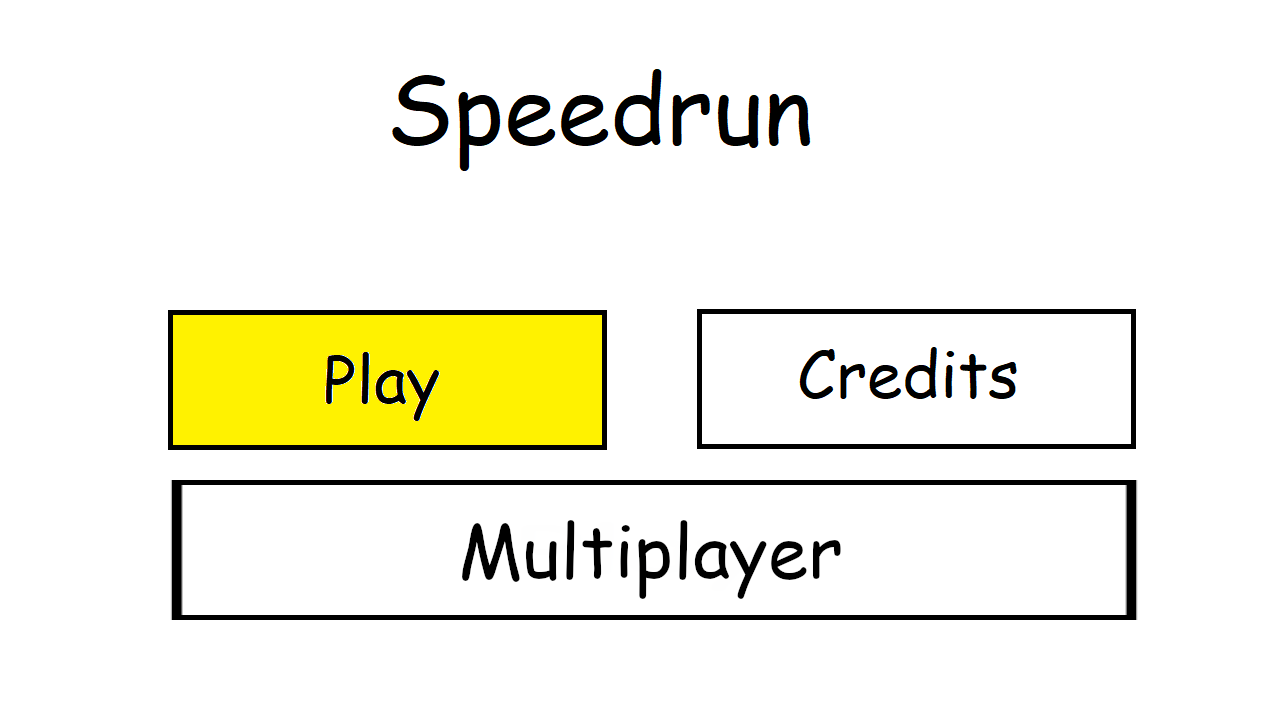
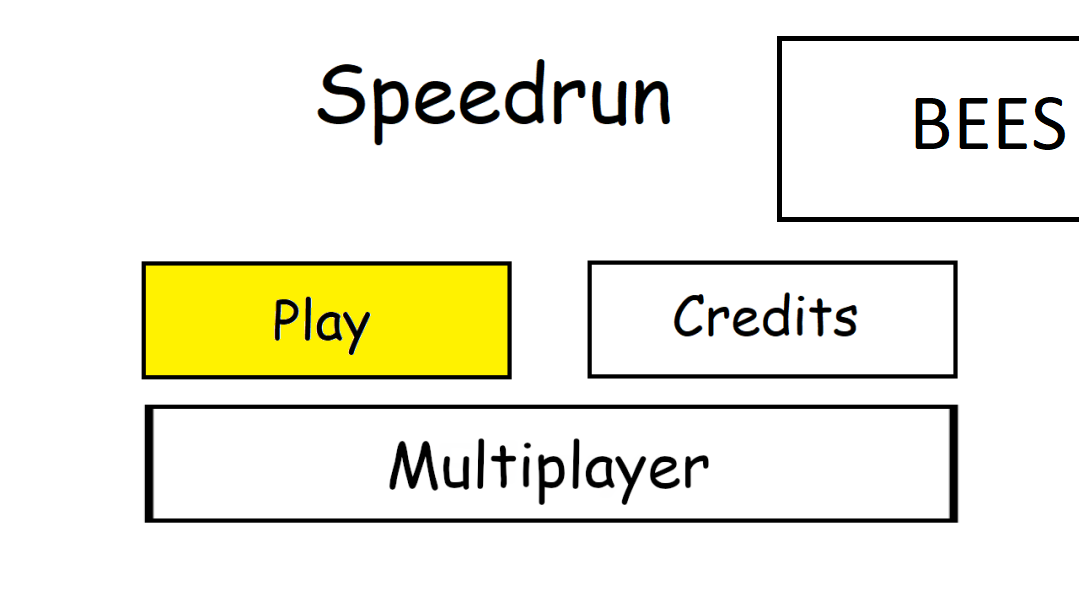
Network Goals
Pings!

Changed region(s): [[0.2753, 0.089, 0.6423, 0.2372], [0.7034, 0.0593, 1.0, 0.3855], [0.8258, 0.1483, 1.0, 0.2669]]

diff --git a/src/main.cpp b/src/main.cpp
@@ -1,7 +1,21 @@
+// SDL2 stuffs
 #include <iostream>
 #include <vector>
+#include <time.h>
 #include <SDL.h>
 #include <SDL_image.h>
+
+// Networking stuffs
+#include <stdio.h>
+#include <stdlib.h>
+#include <unistd.h>
+#include <string.h>
+#include <sys/types.h>
+#include <sys/socket.h>
+#include <netinet/in.h>
+#include <netdb.h> 
+
+// Our headers
 #include "XorShifter.h"
 #include "SimplexNoise.h"
 #include "Screen.h"
@@ -9,7 +23,7 @@
 #include "Player.h"
 
 #define CREDIT_SIZE 10
-#define MENU_SIZE 2
+#define MENU_SIZE 4
 
 constexpr int SCREEN_WIDTH = 1280;
 constexpr int SCREEN_HEIGHT = 720;
@@ -24,6 +38,8 @@ Uint32 before;
 Uint32 then;
 Uint32 delta;
 Uint32 now;
+std::vector <SDL_Rect> blocks;	//stores collidable blocks
+std::vector <SDL_Rect> decorative_blocks;	//stores non-collidable blocks
 
 // Function declarations
 bool init();
@@ -32,6 +48,7 @@ Image *loadImage(const char *, int, int);
 void runCredits();
 void runGame();
 void runMenu();
+Player* generateTerrain();
 SDL_Texture *loadTexture(std::string);
 
 Image *loadImage(const char *src, int w, int h)
@@ -86,6 +103,86 @@ void close()
 	delete screen;
 	// Quit SDL subsystems
 	SDL_Quit();
+}
+
+//create blocks, add them to the blocks vector, and return a player at a valid spawn point
+Player* generateTerrain()
+{
+	blocks.clear();
+	decorative_blocks.clear();
+	
+	srand (time(NULL));
+	int rand (void);
+	
+	XorShifter *rng = new XorShifter(412001000);
+	
+	SimplexNoise *simp = new SimplexNoise(rand() % 1000000);
+	simp->freq = 0.05f;
+	simp->octaves = 2;
+	simp->updateFractalBounds();
+	
+	int cave_nums[SCREEN_HEIGHT / BOX_HEIGHT];
+	
+	//SDL_Texture* block_texture = loadTexture("../res/block.png");
+	//SDL_Texture* background_texture = loadTexture("../res/background_block.png");
+	
+	//generate values from a "line" of noise, one value for each row of blocks
+	for (int test = -18; test < 18; test++)
+	{
+		float val_f = simp->getSingle(1, test) * 100;
+		
+		int val_i = (int)val_f;
+		
+		cave_nums[test + 18] = val_i;
+	}
+	
+	bool player_created = false;
+	Player *user;// = new Player(10, 0, 20, 20, loadTexture("../res/Guy.png"));
+	
+	//for each block on the screen
+	for (int y = 0; y < SCREEN_HEIGHT; y = y + BOX_HEIGHT)
+	{
+		bool b = true;
+		
+		//"start" indicates the relative position of the left wall of the cave to the screen at a given elevation
+		int start = cave_nums[y / BOX_HEIGHT] - 11;
+		
+		//"end" indicates the relative position of the right wall of the cave to the screen at a given elevation
+		int end = cave_nums[y / BOX_HEIGHT] + 10;
+		
+		//for each block at elevation y, compare the relative x position of the block on the screen to the
+		//"start" and "end" positions
+		for (int x = 0; x < SCREEN_WIDTH; x = x + BOX_WIDTH)
+		{
+			//relative x position of the block on the screen
+			int ratio = (float)x / (float)SCREEN_WIDTH * 100;
+			
+			//create the rectangle representing the left wall of the cave at elevation y when we reach the correct relative x position
+			if (ratio > start && b)
+			{
+				SDL_Rect block = {0, y, BOX_WIDTH * (x / BOX_WIDTH), BOX_HEIGHT};
+				blocks.push_back(block);
+				b = false;
+				
+				//spawn the player in at the first available "free" block
+				if (!player_created)
+				{
+					user = new Player(x, y, 20, 20, loadTexture("../res/Guy.png"));
+					player_created = true;
+				}
+			}
+			//create the rectangle representing the right wall of the cave at elevation y when we reacht he correct relative x position
+			if (ratio > end)
+			{
+				SDL_Rect block = {x, y, BOX_WIDTH *100, BOX_HEIGHT};
+				blocks.push_back(block);
+				break;
+			}
+		}
+	}
+	
+	return user;
+	
 }
 
 void runCredits()
@@ -161,14 +258,17 @@ void runCredits()
 void runGame()
 {
 	// Create player object with x, y, w, h, texture
-	Player *user = new Player(10, 0, 20, 20, loadTexture("../res/Guy.png"));
+	//Player *user = new Player(10, 0, 20, 20, loadTexture("../res/Guy.png"));
+	
+	//create the player and generate the terrain
+	Player *user = generateTerrain();
 
 	//Define the blocks
-	SDL_Rect block = {SCREEN_WIDTH/2, SCREEN_HEIGHT-20, 200, 20};
+	/*SDL_Rect block = {SCREEN_WIDTH/2, SCREEN_HEIGHT-20, 200, 20};
 	SDL_Rect anotherBlock = {SCREEN_WIDTH/2 - 190, SCREEN_HEIGHT-120, 120, 20};
 	SDL_Rect spring = {SCREEN_WIDTH/2 - 300, SCREEN_HEIGHT-180, 100, 20};
 
-	std::vector <SDL_Rect> blocks = {block, anotherBlock, spring};
+	blocks = {block, anotherBlock, spring};*/
 
 	SDL_Event e;
 	bool gameon = true;
@@ -247,6 +347,85 @@ void runGame()
 	}
 }
 
+void error(const char *msg)
+{
+    perror(msg);
+    exit(1);
+}
+
+void runMultiTestClient()
+{
+	// Sockets Linux tutorial:
+	// http://www.linuxhowtos.org/C_C++/socket.htm
+
+	/*
+	1. Create a socket with the socket() system call
+	2. Connect the socket to the address of the server using the connect() system call
+	3. Send and receive data. There are a number of ways to do this, but the simplest is to use the read() and write() system calls.
+	*/
+
+	const char* hostName = "localhost";
+	const uint16_t portNum = 3060;
+	char buffer[256]; // bytes to communicate
+
+	// Create our socket
+	int clientSocket = socket(AF_INET, SOCK_STREAM, 0);
+	if (clientSocket < 0) {
+		error("Error creating socket...");
+	}
+
+	// Create our server object
+	struct sockaddr_in serverAddress;
+	bzero((char*) &serverAddress, sizeof(serverAddress));
+
+	// Get server info
+	struct hostent* server = gethostbyname(hostName);
+	if (server == NULL) {
+		error("Host doesn't exist...");
+	}
+
+	// Populate the server object
+	serverAddress.sin_family = AF_INET;
+	bcopy((char*) server->h_addr, (char*) &serverAddress.sin_addr.s_addr, server->h_length);
+
+	// Connect to the server
+	serverAddress.sin_port = htons(portNum);
+	if (connect(clientSocket,(struct sockaddr*) &serverAddress,sizeof(serverAddress)) < 0) {
+		error("Error connecting to server...");
+	}
+
+	// Client has successfully connected to server
+	// Create a message to send to it
+	bzero(buffer,256);
+	buffer[0] = 'P';
+	buffer[1] = 'i';
+	buffer[2] = 'n';
+	buffer[3] = 'g';
+	buffer[4] = '!';
+	buffer[5] = '\n';
+
+	// Write the data to the server
+	int n = write(clientSocket,buffer,strlen(buffer));
+	if (n < 0) {
+		error("Error writing to server...");
+	}
+
+	/* Read what the server has to say back (Nothing)
+	bzero(buffer,256);
+	n = read(clientSocket,buffer,255);
+	if (n < 0) {
+		error("ERROR reading from socket");
+	}
+	printf("Read: %s\n",buffer);
+	*/
+
+	// Start the game!
+	runGame();
+
+	// Player disconnected
+	close(clientSocket);
+}
+
 void runMenu()
 {
 	SDL_Event e;
@@ -257,6 +436,8 @@ void runMenu()
 	Image *menu[MENU_SIZE] = {
 		loadImage("../res/play.png", 1280, 720),
 		loadImage("../res/creds.png", 1280, 720),
+		loadImage("../res/mult.png", 1280, 720),
+		loadImage("../res/bees.png", 1280, 720)
 	};
 
 	while (gameon)
@@ -277,19 +458,43 @@ void runMenu()
 			{
 				runGame();
 			}
-			if (keystate[SDL_SCANCODE_RETURN] && menuPos == 1)
+			else if (keystate[SDL_SCANCODE_RETURN] && menuPos == 1)
 			{
 				before = SDL_GetTicks();
 				runCredits();
 			}
-			if (keystate[SDL_SCANCODE_A] && menuPos == 1)
+			else if(keystate[SDL_SCANCODE_RETURN] && menuPos == 2)
+			{
+				runMultiTestClient();
+			}
+			else if(keystate[SDL_SCANCODE_RETURN] && menuPos == 3)
+			{
+				//put bees
+			}
+			else if (keystate[SDL_SCANCODE_A] && menuPos == 1)
 			{
 				//can go left
 				menuPos = 0;
 			}
-			if (keystate[SDL_SCANCODE_D] && menuPos == 0)
+			else if (keystate[SDL_SCANCODE_D] && menuPos == 0)
 			{
 				//can go right
+				menuPos = 1;
+			}
+			else if(keystate[SDL_SCANCODE_W] && menuPos == 2)
+			{
+				menuPos = 0;
+			}
+			else if(keystate[SDL_SCANCODE_W] && menuPos == 1)
+			{
+				menuPos = 3;
+			}
+			else if(keystate[SDL_SCANCODE_S] && (menuPos == 0 || menuPos == 1))
+			{
+				menuPos = 2;
+			}
+			else if(keystate[SDL_SCANCODE_S] && menuPos == 3)
+			{
 				menuPos = 1;
 			}
 

diff --git a/src/SpeedrunServer.cpp b/src/SpeedrunServer.cpp
@@ -1,0 +1,71 @@
+#include <stdio.h>
+#include <stdlib.h>
+#include <string.h>
+#include <unistd.h>
+#include <sys/types.h> 
+#include <sys/socket.h>
+#include <netinet/in.h>
+
+void error(const char *msg) {
+	perror(msg);
+	exit(1);
+}
+
+int main(int argc, char *argv[]) {
+	const char* hostName = "localhost";
+	const uint16_t portNum = 3060;
+	int clientSocket, serverSocket;
+	char buffer[256]; // bytes to communicate
+
+	// Create our socket
+	serverSocket = socket(AF_INET, SOCK_STREAM, 0);
+	if (serverSocket < 0) {
+		error("Error creating socket...");
+	}
+
+	// Create our server and client objects
+	struct sockaddr_in serverAddress;
+	struct sockaddr_in clientAddress;
+	bzero((char*) &serverAddress, sizeof(serverAddress));
+	bzero((char*) &clientAddress, sizeof(clientAddress));
+
+	// Populate our server object
+	serverAddress.sin_family = AF_INET;
+	serverAddress.sin_addr.s_addr = INADDR_ANY;
+	serverAddress.sin_port = htons(portNum);
+
+	// Bind the server to its address
+	if (bind(serverSocket, (struct sockaddr*) &serverAddress, sizeof(serverAddress)) < 0) {
+		error("Error while binding...");
+	}
+
+	while (true) {
+		// Listen for connections to the server socket, up to 5 on waiting list
+		listen(serverSocket, 5);
+		socklen_t clientLength = sizeof(clientAddress);
+		// accept blocks until a client connects
+		clientSocket = accept(serverSocket, (struct sockaddr*) &clientAddress, &clientLength);
+		if (clientSocket < 0) {
+			error("Error accepting client...");
+		}
+
+		// Read the message from the client
+		bzero(buffer, 256);
+		int n = read(clientSocket, buffer, 255);
+		if (n < 0) {
+			error("Error reading from client...");
+		}
+
+		printf("Received message from %d: %s\n", serverAddress.sin_addr.s_addr, buffer);
+
+		n = write(clientSocket, "I got your message", 18);
+		if (n < 0) {
+			error("Error writing to client...");
+		}
+	}
+
+	close(clientSocket);
+	close(serverSocket);
+
+	return 0; 
+}
